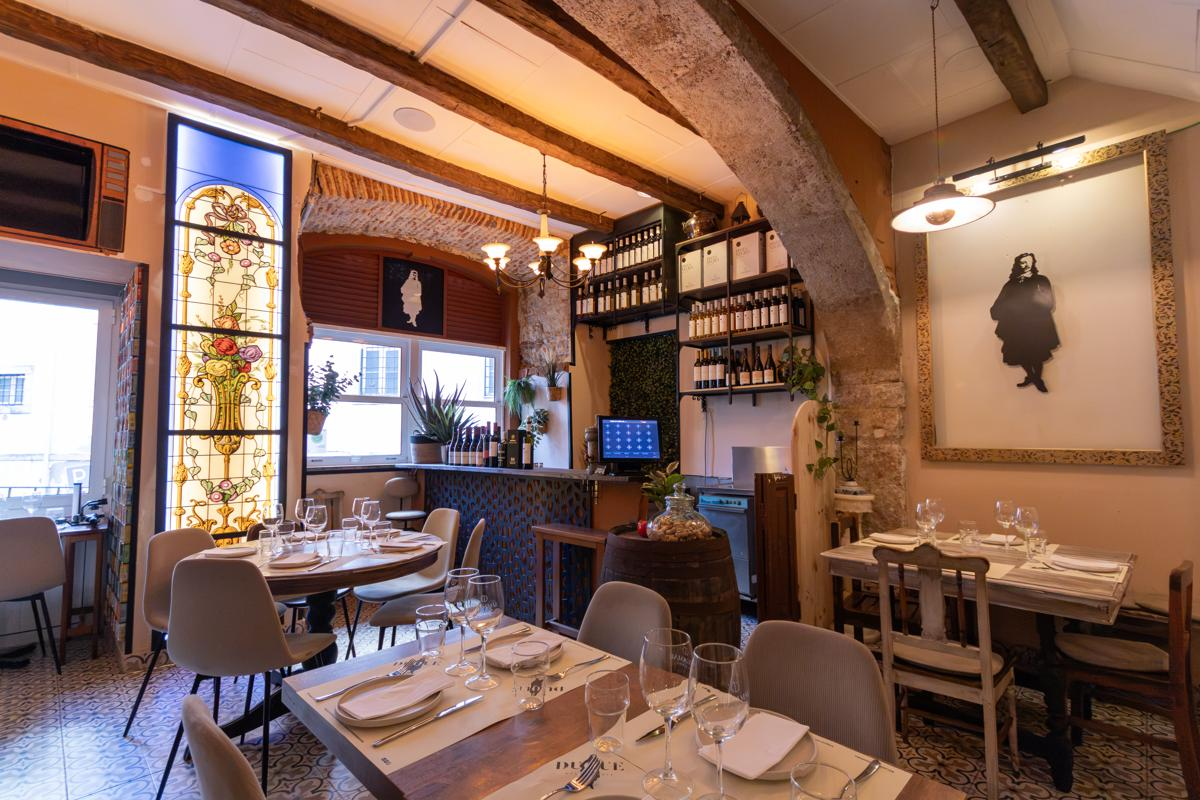
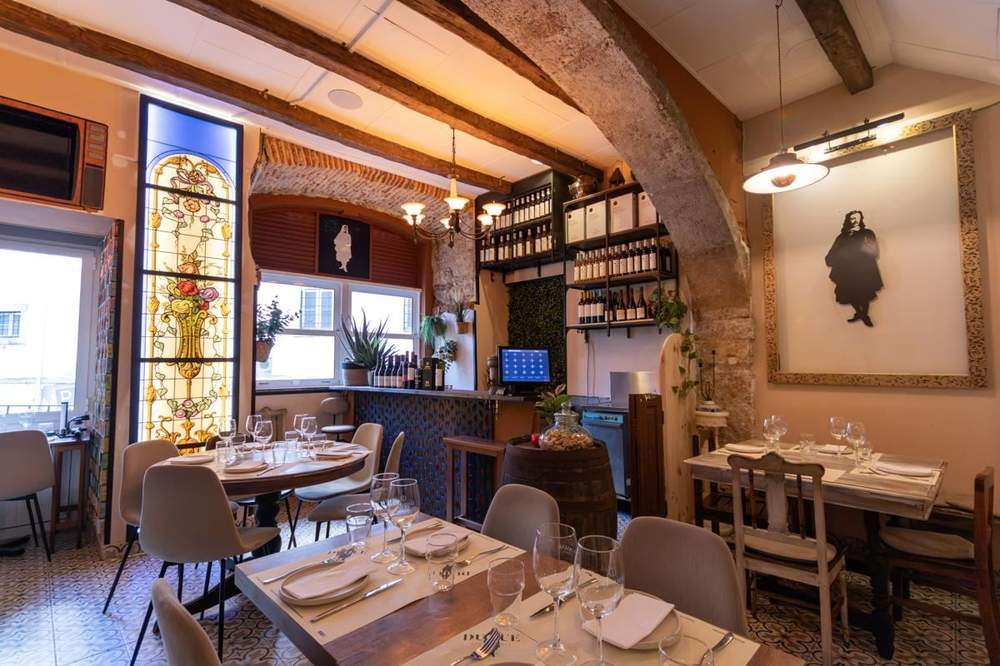
Add files via upload

diff --git a/SITE DUQUE (publicar)/index.html b/SITE DUQUE (publicar)/index.html
@@ -3,6 +3,7 @@
 <head>
 <meta charset="UTF-8">
 <meta name="viewport" content="width=device-width, initial-scale=1.0">
+<meta name="theme-color" content="#221007">
 <title>Restaurante Duque — Traditional Portuguese Restaurant in Central Lisbon</title>
 <meta name="description" content="Restaurante Duque is a traditional Portuguese restaurant in the historic center of Lisbon, steps from Largo do Carmo and Chiado. Authentic Portuguese and Mediterranean cuisine, generous petiscos and great value for money in a cozy atmosphere — a top choice among restaurants in Lisbon for visitors and locals alike.">
 <link rel="canonical" href="https://www.duquerestaurante.com/">
@@ -27,10 +28,12 @@
 <link rel="icon" type="image/png" sizes="16x16" href="assets/img/favicon-16.png">
 <link rel="icon" type="image/png" sizes="32x32" href="assets/img/favicon-32.png">
 <link rel="apple-touch-icon" sizes="180x180" href="assets/img/favicon-180.png">
+<link rel="preload" as="image" href="assets/img/bg-main.jpg" media="(min-width:761px) and (orientation:landscape), (min-width:1025px)">
+<link rel="preload" as="image" href="assets/img/bg-main-mobile.jpg" media="(max-width:760px), (min-width:761px) and (max-width:1024px) and (orientation:portrait)">
 <link rel="preconnect" href="https://fonts.googleapis.com">
 <link rel="preconnect" href="https://fonts.gstatic.com" crossorigin>
 <link href="https://fonts.googleapis.com/css2?family=Playfair+Display:ital,wght@0,500;0,600;0,700;1,500&family=Mulish:wght@400;500;600;700;800&display=swap" rel="stylesheet">
-<link rel="stylesheet" href="assets/css/style.css?v=130">
+<link rel="stylesheet" href="assets/css/style.css?v=131">
 <script type="application/ld+json">
 {
   "@context": "https://schema.org",
@@ -313,7 +316,7 @@
       <div class="reservas__map">
         <iframe
           title="Localização do Restaurante Duque"
-          src="https://www.google.com/maps/embed?pb=!1m18!1m12!1m3!1d3113.2206764941952!2d-9.141008899999997!3d38.7127422!2m3!1f0!2f0!3f0!3m2!1i1024!2i768!4f13.1!3m3!1m2!1s0xd19347f5b748717%3A0x54384ce86dbceb9c!2sDuque!5e0!3m2!1spt-PT!2spt!4v1788450782050!5m2!1spt-PT!2spt"
+          src="https://www.google.com/maps/embed?pb=!1m18!1m12!1m3!1d600!2d-9.141008899999997!3d38.7127422!2m3!1f0!2f0!3f0!3m2!1i1024!2i768!4f13.1!3m3!1m2!1s0xd19347f5b748717%3A0x54384ce86dbceb9c!2sDuque!5e0!3m2!1spt-PT!2spt!4v1788450782050!5m2!1spt-PT!2spt"
           loading="lazy"
           referrerpolicy="no-referrer-when-downgrade">
         </iframe>

diff --git a/SITE DUQUE (publicar)/carta-pratos.html b/SITE DUQUE (publicar)/carta-pratos.html
@@ -3,6 +3,7 @@
 <head>
 <meta charset="UTF-8">
 <meta name="viewport" content="width=device-width, initial-scale=1.0">
+<meta name="theme-color" content="#221007">
 <title>Restaurante Duque — Pratos Principais</title>
 <meta name="description" content="Pratos principais do Restaurante Duque em Lisboa — carnes, peixes, saladas, vegetariano e sobremesas.">
 <link rel="canonical" href="https://www.duquerestaurante.com/carta-pratos.html">
@@ -23,10 +24,12 @@
 <link rel="icon" type="image/png" sizes="16x16" href="assets/img/favicon-16.png">
 <link rel="icon" type="image/png" sizes="32x32" href="assets/img/favicon-32.png">
 <link rel="apple-touch-icon" sizes="180x180" href="assets/img/favicon-180.png">
+<link rel="preload" as="image" href="assets/img/bg-main.jpg" media="(min-width:761px) and (orientation:landscape), (min-width:1025px)">
+<link rel="preload" as="image" href="assets/img/bg-main-mobile.jpg" media="(max-width:760px), (min-width:761px) and (max-width:1024px) and (orientation:portrait)">
 <link rel="preconnect" href="https://fonts.googleapis.com">
 <link rel="preconnect" href="https://fonts.gstatic.com" crossorigin>
 <link href="https://fonts.googleapis.com/css2?family=Playfair+Display:ital,wght@0,500;0,600;0,700;1,500&family=Mulish:wght@400;500;600;700;800&display=swap" rel="stylesheet">
-<link rel="stylesheet" href="assets/css/style.css?v=130">
+<link rel="stylesheet" href="assets/css/style.css?v=131">
 <link rel="stylesheet" href="assets/css/carta.css?v=28">
 </head>
 <body>

diff --git a/SITE DUQUE (publicar)/carta-bar.html b/SITE DUQUE (publicar)/carta-bar.html
@@ -3,6 +3,7 @@
 <head>
 <meta charset="UTF-8">
 <meta name="viewport" content="width=device-width, initial-scale=1.0">
+<meta name="theme-color" content="#221007">
 <title>Restaurante Duque — Bar</title>
 <meta name="description" content="Carta do bar do Restaurante Duque em Lisboa — bebidas, bar português e o outro bar.">
 <link rel="canonical" href="https://www.duquerestaurante.com/carta-bar.html">
@@ -23,10 +24,12 @@
 <link rel="icon" type="image/png" sizes="16x16" href="assets/img/favicon-16.png">
 <link rel="icon" type="image/png" sizes="32x32" href="assets/img/favicon-32.png">
 <link rel="apple-touch-icon" sizes="180x180" href="assets/img/favicon-180.png">
+<link rel="preload" as="image" href="assets/img/bg-main.jpg" media="(min-width:761px) and (orientation:landscape), (min-width:1025px)">
+<link rel="preload" as="image" href="assets/img/bg-main-mobile.jpg" media="(max-width:760px), (min-width:761px) and (max-width:1024px) and (orientation:portrait)">
 <link rel="preconnect" href="https://fonts.googleapis.com">
 <link rel="preconnect" href="https://fonts.gstatic.com" crossorigin>
 <link href="https://fonts.googleapis.com/css2?family=Playfair+Display:ital,wght@0,500;0,600;0,700;1,500&family=Mulish:wght@400;500;600;700;800&display=swap" rel="stylesheet">
-<link rel="stylesheet" href="assets/css/style.css?v=130">
+<link rel="stylesheet" href="assets/css/style.css?v=131">
 <link rel="stylesheet" href="assets/css/carta.css?v=28">
 </head>
 <body>

diff --git a/SITE DUQUE (publicar)/carta-entradas.html b/SITE DUQUE (publicar)/carta-entradas.html
@@ -3,6 +3,7 @@
 <head>
 <meta charset="UTF-8">
 <meta name="viewport" content="width=device-width, initial-scale=1.0">
+<meta name="theme-color" content="#221007">
 <title>Restaurante Duque — Entradas e Petiscos</title>
 <meta name="description" content="Entradas, couvert e petiscos do Restaurante Duque em Lisboa.">
 <link rel="canonical" href="https://www.duquerestaurante.com/carta-entradas.html">
@@ -23,10 +24,12 @@
 <link rel="icon" type="image/png" sizes="16x16" href="assets/img/favicon-16.png">
 <link rel="icon" type="image/png" sizes="32x32" href="assets/img/favicon-32.png">
 <link rel="apple-touch-icon" sizes="180x180" href="assets/img/favicon-180.png">
+<link rel="preload" as="image" href="assets/img/bg-main.jpg" media="(min-width:761px) and (orientation:landscape), (min-width:1025px)">
+<link rel="preload" as="image" href="assets/img/bg-main-mobile.jpg" media="(max-width:760px), (min-width:761px) and (max-width:1024px) and (orientation:portrait)">
 <link rel="preconnect" href="https://fonts.googleapis.com">
 <link rel="preconnect" href="https://fonts.gstatic.com" crossorigin>
 <link href="https://fonts.googleapis.com/css2?family=Playfair+Display:ital,wght@0,500;0,600;0,700;1,500&family=Mulish:wght@400;500;600;700;800&display=swap" rel="stylesheet">
-<link rel="stylesheet" href="assets/css/style.css?v=130">
+<link rel="stylesheet" href="assets/css/style.css?v=131">
 <link rel="stylesheet" href="assets/css/carta.css?v=28">
 </head>
 <body>

diff --git a/SITE DUQUE (publicar)/privacidade.html b/SITE DUQUE (publicar)/privacidade.html
@@ -3,6 +3,7 @@
 <head>
 <meta charset="UTF-8">
 <meta name="viewport" content="width=device-width, initial-scale=1.0">
+<meta name="theme-color" content="#221007">
 <title>Restaurante Duque — Política de Privacidade e Cookies</title>
 <meta name="description" content="Política de Privacidade e Cookies do Restaurante Duque em Lisboa.">
 <link rel="canonical" href="https://www.duquerestaurante.com/privacidade.html">
@@ -21,10 +22,12 @@
 <link rel="icon" type="image/png" sizes="16x16" href="assets/img/favicon-16.png">
 <link rel="icon" type="image/png" sizes="32x32" href="assets/img/favicon-32.png">
 <link rel="apple-touch-icon" sizes="180x180" href="assets/img/favicon-180.png">
+<link rel="preload" as="image" href="assets/img/bg-main.jpg" media="(min-width:761px) and (orientation:landscape), (min-width:1025px)">
+<link rel="preload" as="image" href="assets/img/bg-main-mobile.jpg" media="(max-width:760px), (min-width:761px) and (max-width:1024px) and (orientation:portrait)">
 <link rel="preconnect" href="https://fonts.googleapis.com">
 <link rel="preconnect" href="https://fonts.gstatic.com" crossorigin>
 <link href="https://fonts.googleapis.com/css2?family=Playfair+Display:ital,wght@0,500;0,600;0,700;1,500&family=Mulish:wght@400;500;600;700;800&display=swap" rel="stylesheet">
-<link rel="stylesheet" href="assets/css/style.css?v=130">
+<link rel="stylesheet" href="assets/css/style.css?v=131">
 </head>
 <body>
 

diff --git a/SITE DUQUE (publicar)/assets/css/style.css b/SITE DUQUE (publicar)/assets/css/style.css
@@ -111,6 +111,11 @@ h1,h2,h3{ font-family:var(--ff-display); margin:0; }
   transform:none;
   transition:none;
 }
+#hero > .hero__content{
+  opacity:1;
+  transform:none;
+  transition:none;
+}
 
 /* ==========================================================================
    Topbar
